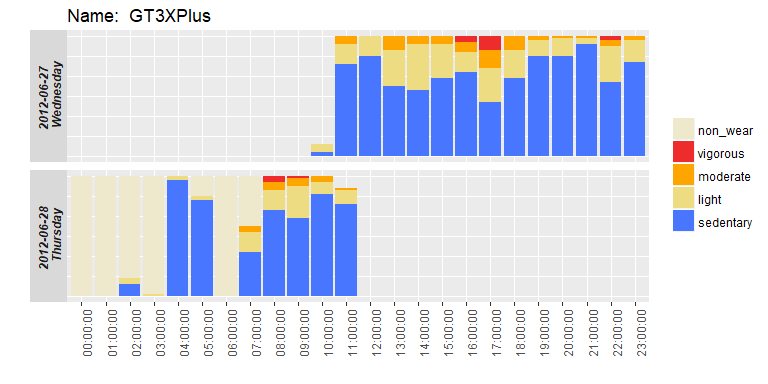
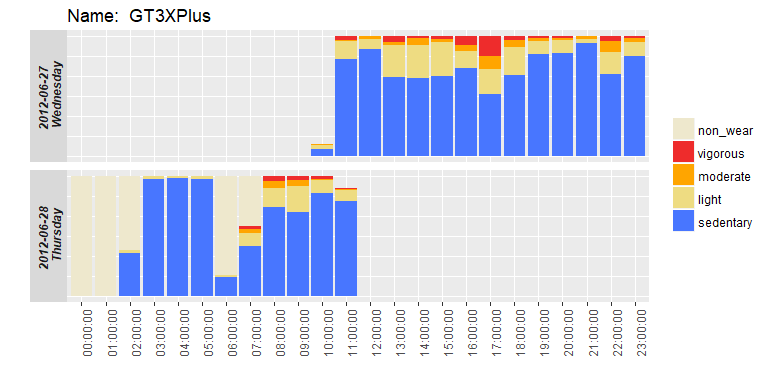
Update readme (again 2!)

diff --git a/README.md b/README.md
@@ -101,7 +101,7 @@ This file can then be processed using the dplyr pipe syntax. This snippet collap
 
 ``` r
 scored <- agdb %>% 
-  collapse_epochs(60) %>% 
+  collapse_epochs(30) %>% 
   apply_weartime(fun = apply_troiano) %>% 
   apply_cutpoints(cutpoints = "evenson_children") 
 ```
@@ -109,11 +109,11 @@ scored <- agdb %>%
 ``` r
 head(scored, 5)
 #>             timestamp axis1 axis2 axis3 steps inclineoff inclinestanding inclinesitting inclinelying wear activity
-#> 1 2012-06-27 10:54:00  1465  1791  2572    13          0              40             20            0    1        2
-#> 2 2012-06-27 10:55:00   207   218   270     1          0              10             50            0    1        2
-#> 3 2012-06-27 10:56:00   169   257   270     3          0              11             49            0    1        2
-#> 4 2012-06-27 10:57:00     0     0     0     0          0               0             60            0    1        1
-#> 5 2012-06-27 10:58:00   157   174   248     1          0              10             50            0    1        2
+#> 1 2012-06-27 10:54:00  1347  1657  2351    12          0              30              0            0    1        3
+#> 2 2012-06-27 10:54:30   118   134   221     1          0              10             20            0    1        2
+#> 3 2012-06-27 10:55:00   207   218   270     1          0              10             20            0    1        2
+#> 4 2012-06-27 10:55:30     0     0     0     0          0               0             30            0    1        1
+#> 5 2012-06-27 10:56:00   169   257   270     3          0              11             19            0    1        2
 ```
 
 Summarising this data over a specified time interval (e.g. daily, hourly) is as simple as:
